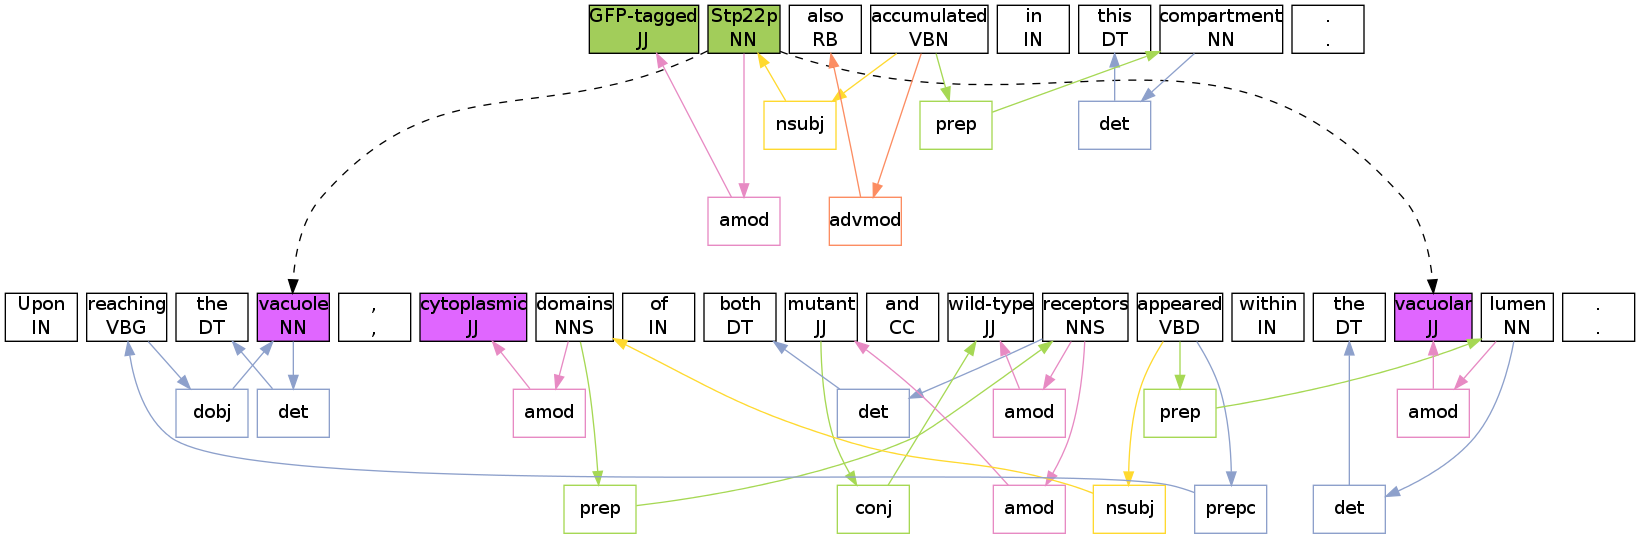
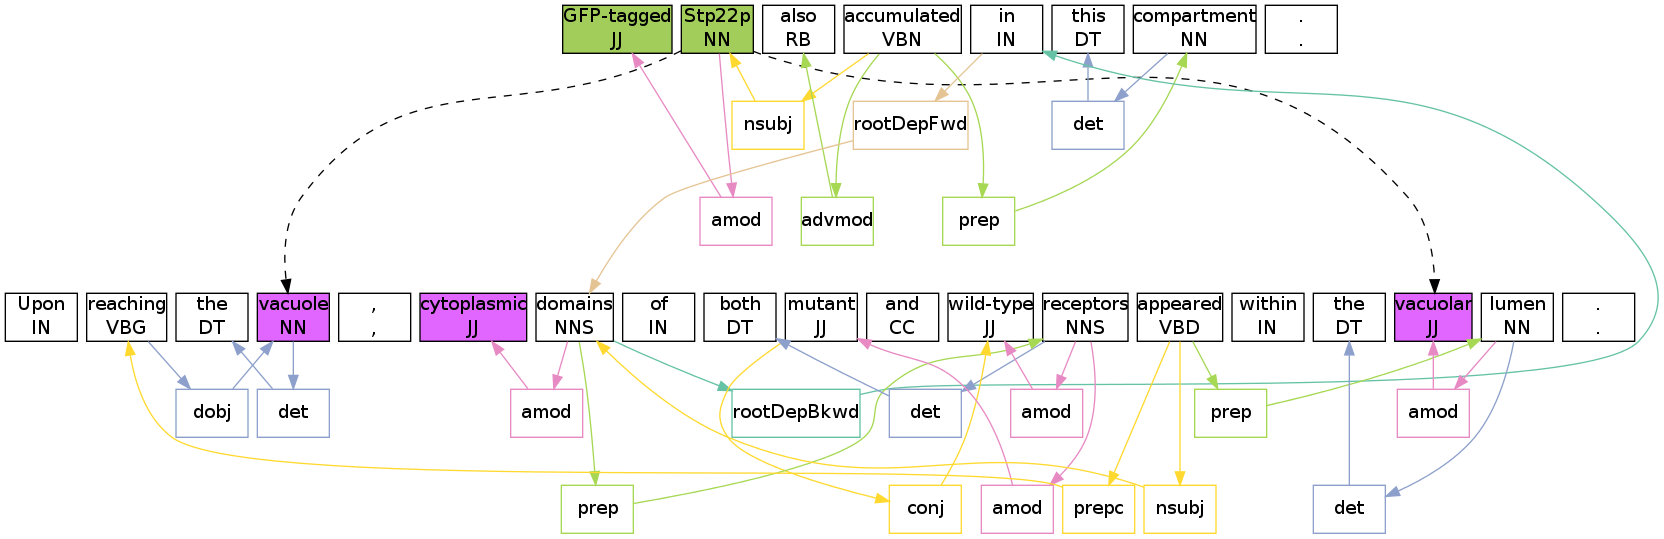
Additions to the "method" chapter

diff --git a/chapters/methods.tex b/chapters/methods.tex
@@ -157,12 +157,12 @@ Also shown are the dashed edges which represents the protein-location relations.
 
 %TODO add figure for multi sentences
 
-For \textit{DSModel}, the graph representation is bit different compared with that in \textit{SSModel}. In \textit{DSModel}, pair of sentences are considered where every pair consists of neighboring sentences. Similar to the graph representation in \textit{SSModel}, the sentence is tokenized and every token forms a node in the graph. The tokens part of protein entity are in green, those part of organism entity are in yellow and the tokens that are part of a location entity are in magenta. Since two sentences are considered at a time, the graphs of these sentences are concatenated together as shown in the fig. \ref{fig:DSGraph}. 
+For \textit{DSModel}, the graph representation is bit different compared with that in \textit{SSModel}. In \textit{DSModel}, pair of sentences are considered where every pair consists of neighboring sentences. Figure \ref{fig:DSGraph} shows an example of \textit{DSModel} graph representation. Similar to the graph representation in \textit{SSModel}, the sentence is tokenized and every token forms a node in the graph. The tokens that are part of protein entity are in green, those part of organism entity are in yellow and the tokens that are part of a location entity are in magenta. Since two sentences are considered at a time, the graphs of these sentences are concatenated together and considered as a combined sentence as shown in the fig. \ref{fig:DSGraph}. 
 
 \begin{figure}
 \centering
-\includegraphics[scale=0.25]{figures/DiffSentenceGraph.png}
-\caption{Graph representation of a sentence in \textit{DSModel}}\label{fig:DSGraph}
+\includegraphics[scale=0.3]{figures/DiffSentenceGraph.png}
+\caption{Graph representation of a combined sentence in \textit{DSModel}}\label{fig:DSGraph}
 \end{figure}
 
 
@@ -170,13 +170,13 @@ The edges in the graph are primarily dependency edges between the tokens in two 
 
 \begin{itemize}
 
-\item \textbf{Root to root connection}: the root of the first sentence is connected with root of the second sentence. This connection helps in finding the path from a entity in one sentence to an entity in another sentence. This connection is bidirectional.
+\item \textbf{Root to root connection}: the root of the first sentence is connected with root of the second sentence. This connection helps in finding the path from a entity in one sentence to an entity in another sentence. This connection is bidirectional. As shown in the fig. \ref{fig:DSGraph}, the root of the first sentence "in" is connected via a dependency edge to the root of the second sentence "domains". The forward dependency edge between the roots is labeled \textit{rootDepFwd} and the backward dependency edge between the roots is labeled \textit{rootDepBkwd}.
 
 \item \textbf{Connections between same words}: If some of the tokens in both sentences are nouns and have similar text, then these tokens are connected by edges. These edges are directed from tokens in the first sentence to the tokens in the second sentence.
 
-\item \textbf{Connections between protein entity and "protein" word}: These are special connections which try to gauge the coreferent mentions in the most naive manner. If one of the sentence contains a word "protein" and does not contain any other protein entity, then it is likely that the "protein" word in this sentence may actually be referring to the protein entities in another sentence. Therefore, a connection is made from word "protein" to the protein entities in other sentences with the expectation that if this is a case of coreferent mentions, then it will be easier to extract the path. 
+\item \textbf{Connections between protein entity and "protein" word}: These are special connections which try to gauge the coreferent mentions in the most naive manner. If one of the sentence contains a word "protein" and does not contain any other protein entity, then it is likely that the "protein" word in this sentence may actually be referring to the protein entities in another sentence. Therefore, a connection is made from the word "protein" to the protein entities in other sentences with the expectation that if this is a case of coreferent mentions, then it will be easier to extract the path. 
 
-\item \textbf{Connections between location entity and "location" word}: With the similar assumption as mentioned in the previous point, it is assumed that if a sentence has a word "localize" or "location" and it does not have a location entity, then it might be the case that this word is a coreferent mention of the location entity mentioned in the other sentence. Therefore, an extra edge is added between the words containing text "location" or "localize" to the location entity. This is a directional edge from the word to the entity.
+\item \textbf{Connections between location entity and "location" word}: With the similar assumption as mentioned in the previous point, it is assumed that if a sentence has a word "localize", "location" or "compartment" and it does not have a location entity, then it might be the case that this word is a coreferent mention of the location entity mentioned in the other sentence. Therefore, an extra edge is added between the words containing text "location", "localize" or "compartment" to the location entity. This is a directional edge from the word to the entity. In the fig. \ref{fig:DSGraph}, although there is a word \textit{compartment} in the first sentence, the connections are not shown in the figure to keep the figure readable.
 
 \end{itemize}
 
@@ -187,9 +187,45 @@ Figure \ref{fig:DSGraph} is a representational figure. In the figure, the entity
 
 \section{Feature extraction}\label{sec:featExp}
 
-\subsection{Feature extraction for SameSentenceModel}
+This section describes the features extracted and used for the purpose of training and classification. The format of the feature set to be written for $SVM^{light}$ is explained in detail in the section \ref{sec:training}. Although there are a few differences in the feature sets of \textit{SSModel} and \textit{DSModel}, most of the features are common to both the models. 
 
-\subsection{Feature extraction for DiffSentenceModel}
+There are three feature subspaces from which the features can be extracted. These feature subspaces correspond to the sequences, syntactic parse trees and dependency parse trees \cite{jiang2007systematic}. A variety of features are extracted from all these feature subspaces and combined for optimal performance. The overview of features can be presented as follows.
+
+\subsection*{Sentence features}
+
+Sentence features are extracted for every potential relation that is a part of the sentence. Sentence features include bag of words (BOW) of sentence tokens, stem of sentence tokens and frequency features like number of protein entities in the sentence, number of location entities in the sentence, number of organism entities in the sentence, count of the bag of words, etc.
+
+\subsection*{Token features}
+
+Token features are extracted for tokens that are part of the entities and for tokens that are in linear and dependency context of entities. Every entity is represented by a head token and the head token of an entity is calculated by a simple heuristic.
+
+Token features include token text, masked token text, stem, POS tag, etc. Most of the features are binary and some are integer-valued features. There are features for binary tests on a token like whether first letter of token is in capital case or not (capitalization test), if some letter in the middle is capital case or not. Other binary tests include presence of a hyphen, presence of forward slash, presence of backward slash, , presence of digits, etc. Character bigrams and trigrams of the token also contribute to the token features.
+
+\subsection*{Linear context and dependency chain}
+
+Token features are also extracted for tokens that are present in the linear and dependency context. A linear context of length 3 is considered, i.e., features are extracted for next 3 tokens and previous 3 tokens of the token under consideration.
+
+A dependency chain length of 3 is considered for the dependency context. Incoming and outgoing dependencies are calculated for tokens. For example, in the case of incoming dependencies, features are extracted for the 'source' token (or 'from' token) and its incoming, outgoing dependencies are considered too. This goes on upto dependency depth of 3. In addition to the token features, the dependency edge types are also considered while extracting dependency chain features.
+
+\subsection*{Dependency features}
+
+A lot of features are extracted depending on the dependency graph. Using Floyd-Warshall algorithm, shortest path between the protein entity and the location entity in a potential PL relation is calculated. Most of the dependency based features depend on this shortest path. The length of the path contributes an integer valued feature in addition to binary feature for each length.
+
+Token features are extracted for terminal features of the shortest path which are head tokens of the entities. Some of the other path related features include token features of the internal tokens in the path, features for every edge in the path, features for internal edges in the path, etc.
+
+\subsubsection*{N-gram dependency features}
+
+The protein and location entities are represented by their respective head tokens.  The shortest path between two entities is actually a shortest path between the head tokens. However, there need not be a single shortest path between two entities. There can be multiple paths between two entities with same distance or same minimum distances. All such paths with minimum distance are calculated and features are extracted for each one of them.
+
+For every such minimum distance path from the set of min distance paths, parts of the paths are considered for N-gram features. For example, set of all 2 consecutive tokens are considered for 2-gram features and set of all 3 consecutive tokens are considered for 3-gram features, etc. 2,3 and 4-gram features are extracted from all such paths and these features include the token features that are part of the corresponding set, dependencies in the set, directions of dependencies in the set, etc. 
+
+\subsection*{Other features}
+
+Other features include relative order of the entities, the features of the tokens that lie between entities in potential relation, features depending on the presence of word "protein", presence of other special words between two entities, etc.
+
+\subsection{Features specific to \textit{DSModel}}
+
+Some features are very specific to the \textit{DSModel} since it involves processing pair of sentence as a combined sentence along with extra links. Some of those features include presence of an entity in first sentence or second sentence, bag of words/stem/POS of tokens in individual sentences, etc. Importantly, the \textit{DSModel} also makes use of predictions of \textit{SSModel} and related features include if the entities considered in the potential relations have a same sentence relation or not according to \textit{SSModel} predictions. The intuition behind using same sentence predictions is that the entities that already have a same sentence relations is unlikely to have a different sentence relations in most of the cases.
 
 \section{Feature Selection}\label{sec:featSel}
 
@@ -202,6 +238,31 @@ Figure \ref{fig:DSGraph} is a representational figure. In the figure, the entity
 %TODO: See how to calculate binary information gain for a feature/set of features.***
 
 \section{Training, Cross validation and Classification}\label{sec:training}
+
+All experiments are performed on LocText \cite{loctext} corpus. As mentioned previously, the LocText corpus consists of 100 abstracts.
+
+\subsection{Representation of examples in $SVM^{light}$ }
+
+$SVM^{light}$ \cite{joachims1999making} have a specific way of representing the examples. For protein-location relation extraction, every potential relation is an example. Every example is written on a new line in a plain file and represented as a vector of features. Following format explains the structure of every example:
+
+\bigskip
+
+\texttt{<line> .=. <target> <feature>:<value>...<feature>:<value> \# <info>}
+
+\texttt{<target> .=. +1 | -1 | 0 | <float>}
+
+\texttt{<feature> .=. <integer> | "qid"}
+
+\texttt{<value> .=. <float>}
+
+\texttt{<info> .=. <string>}
+
+\subsection{Cross validation}
+
+%TODO A figure for cross validation
+A 5-fold cross validation is used where every fold consists of 20 documents. 60\% of the total data is used for training, 20\% for development and 20\% for test. The training data is used to train the model using $SVM^{light}$. The development data is used for tuning the hyperparameters. For both \textit{SSModel} and \textit{DSModel}, regularization parameter $\mathbf{C}$ is the only hyperparameter to be tuned.  Finally, unseen test data is used for calculating results. The final performance of the model is the average of the performance for all 5-folds.
+
+
 
 \section{Experiments that worked and that did not work}\label{sec:experiments}
 
